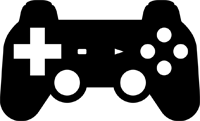
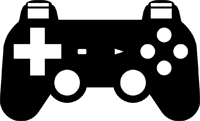
Button Highlighting: Round N
Cut the shoulder buttons out of the controller.png image.  Set the background of
diagram divs to the controller.png image by default.  Uncommented the background
setting line.

Changed region(s): [[0.12, 0.0248, 0.27, 0.1736], [0.75, 0.0248, 0.87, 0.1736]]

diff --git a/display.js b/display.js
@@ -79,7 +79,7 @@ function displayButtons() {
 			var highlight = ", url('./img/" + String(b) + ".png')";
 			bkgrnd = bkgrnd.concat(highlight);
 		});
-		// document.getElementById(divID).style.background = bkgrnd;
+		document.getElementById(divID).style.background = bkgrnd;
 	});
 	
 }

diff --git a/style.css b/style.css
@@ -28,7 +28,7 @@
     top:20px;
     width: 200px;
     height: 121px;
-    background: url("./img/6.png");
+    background: url("./img/controller.png");
 }
 
 .info {
